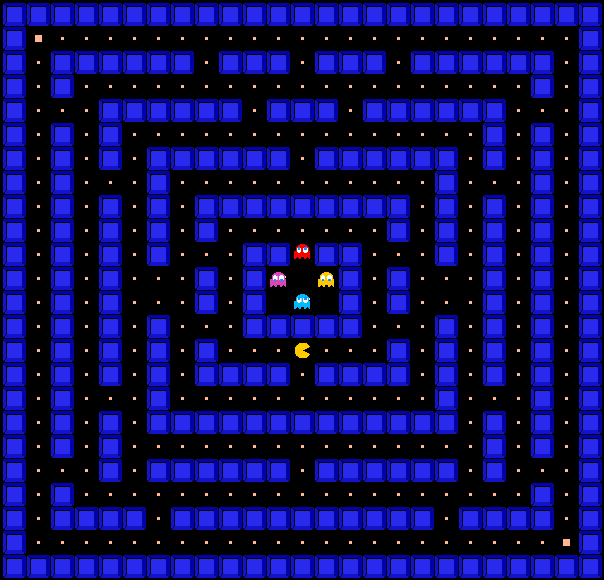
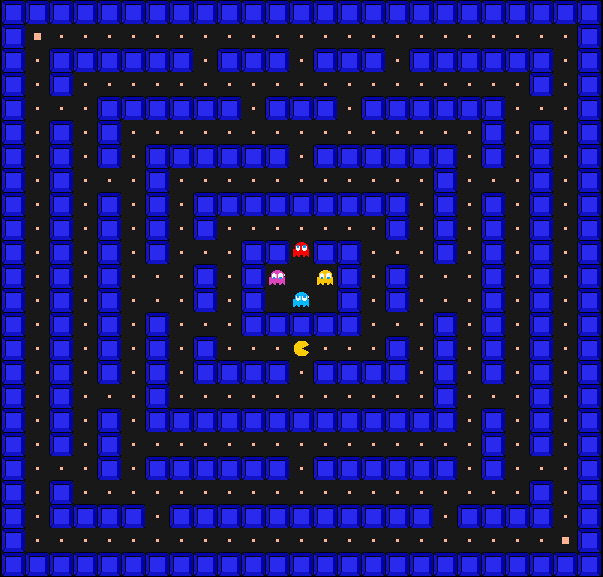
Change labels in level menu and move pause button

diff --git a/src/level.py b/src/level.py
@@ -346,6 +346,13 @@ class Level:
             ]
         ]
 
+        self.themes = {
+            # name : board, block
+            'space': [Colors.DARK_GRAY, block_space],
+            'winter': [Colors.ICE, block_ice],
+            'beach': [Colors.SAND, block_beach]
+        }
+
     def reset(self):
         self.lvl = 0
         self.maps = self.start_maps
@@ -359,16 +366,9 @@ class Level:
         return self.maps[self.lvl].copy()
 
     def to_board(self):
-        if self.mapsCfg[self.lvl][3][0] == 'beach':
-            pygame.draw.rect(Win.screen, Colors.SAND,(Win.MARGIN_LEFT, Win.MARGIN_TOP, Win.GRID_SIZE*25, Win.GRID_SIZE*24))
-        elif self.mapsCfg[self.lvl][3][0] == 'winter':
-            pygame.draw.rect(Win.screen, Colors.ICE,(Win.MARGIN_LEFT, Win.MARGIN_TOP, Win.GRID_SIZE*25, Win.GRID_SIZE*24))
+        theme = self.mapsCfg[self.lvl][3][0]
+        pygame.draw.rect(Win.screen, self.themes[theme][0],(Win.MARGIN_LEFT, Win.MARGIN_TOP, Win.GRID_SIZE*25, Win.GRID_SIZE*24))
         for i in range(25):
             for j in range(24):
                 if(self.maps[self.lvl][j][i] == 1):
-                    if self.mapsCfg[self.lvl][3][0] == 'beach':
-                        Win.screen.blit(block_beach, (Win.MARGIN_LEFT + Win.GRID_SIZE * i, Win.MARGIN_TOP + Win.GRID_SIZE * j))
-                    elif self.mapsCfg[self.lvl][3][0] == 'winter':
-                        Win.screen.blit(block_ice, (Win.MARGIN_LEFT + Win.GRID_SIZE * i, Win.MARGIN_TOP + Win.GRID_SIZE * j))
-                    else:
-                        Win.screen.blit(block_space, (Win.MARGIN_LEFT + Win.GRID_SIZE * i, Win.MARGIN_TOP + Win.GRID_SIZE * j))
+                    Win.screen.blit(self.themes[theme][1], (Win.MARGIN_LEFT + Win.GRID_SIZE * i, Win.MARGIN_TOP + Win.GRID_SIZE * j))

diff --git a/src/main.py b/src/main.py
@@ -270,14 +270,13 @@ def game_loop(start_lvl):
     start_time = time.time()
     pause_time = None
     soundtrack.stop()
-    Win.screen.fill(Win.BGCOLOR)
     new_lvl(start_lvl)
+    Win.screen.fill(Win.BGCOLOR)
     lvl.to_board()
     points.to_board(player)
     player_list.draw(Win.screen)
     ghost_list.draw(Win.screen)
     draw_score(start_time)
-    Win.screen.blit(pause_button, (15, 15))
     pygame.display.flip()
     time.sleep(2)
     start_time += 2
@@ -310,7 +309,7 @@ def game_loop(start_lvl):
                         pause_game()
                         main = False
                 if event.type == pygame.MOUSEBUTTONUP:
-                    if(pygame.mouse.get_pos()[0] <= 115 and pygame.mouse.get_pos()[1] <= 115):
+                    if(pygame.mouse.get_pos()[0] <= 100 and pygame.mouse.get_pos()[1] <= 100):
                         pause_game()
                         main = False
                     else:
@@ -364,7 +363,7 @@ def game_loop(start_lvl):
                     main = False
             
             if event.type == pygame.MOUSEBUTTONUP:
-                if(pygame.mouse.get_pos()[0] <= 120 and pygame.mouse.get_pos()[1] <= 120):
+                if(120 <= pygame.mouse.get_pos()[0] <= 200 and pygame.mouse.get_pos()[1] <= 100):
                     pause_game()
 
         ghost_list.update(player.rect.center, lvl, get_time(), lvl.mapsCfg[lvl.lvl][Settings.difficulty], player.step)
@@ -401,7 +400,7 @@ def game_loop(start_lvl):
         player_list.draw(Win.screen)
         ghost_list.draw(Win.screen)
         draw_score(start_time)
-        Win.screen.blit(pause_button, (15, 15))
+        Win.screen.blit(pause_button, (120, 15))
         pygame.display.flip()
         clock.tick(Win.FPS)
 

diff --git a/src/maps.py b/src/maps.py
@@ -41,7 +41,7 @@ class Bigmap:
             Win.screen.blit(self.comeback, (0, 0))
 
             for i in range(4):
-                score_img = font.render("Lvl: " + str(i+1), True, (0, 255, 255))
+                score_img = font.render("Level " + str(i+1), True, (0, 255, 255))
                 score_rect = score_img.get_rect(center=((i+1) * d + ICON_SIZE * i + ICON_SIZE // 2, e - 30))
                 Win.screen.blit(score_img, score_rect)
                 Win.screen.blit(self.maps[i], ((i+1) * d + ICON_SIZE * i, e))
@@ -54,7 +54,7 @@ class Bigmap:
 
             e2 = e + screen_info.current_h - (ICON_SIZE + 60) - screen_info.current_h // 3.2
             for i in range(4):
-                score_img = font.render("Lvl: " + str(i+5), True, (0, 255, 255))
+                score_img = font.render("Level " + str(i+5), True, (0, 255, 255))
                 score_rect = score_img.get_rect(center=((i+1) * d + ICON_SIZE * i + ICON_SIZE // 2, e2 - 30))
                 Win.screen.blit(score_img, score_rect)
                 Win.screen.blit(self.maps[i+4], ((i+1) * d + ICON_SIZE * i, e2))

diff --git a/src/colors.py b/src/colors.py
@@ -16,6 +16,6 @@ class Colors:
     YELLOW = (255, 255, 0)
     ORANGE = (255, 128, 0)
     CYAN = (0, 255, 255)
-    DARK_GRAY = (12, 12, 13)
+    DARK_GRAY = (24, 24, 24)
     SAND = (226, 230, 218)
     ICE = (181, 231, 235)
